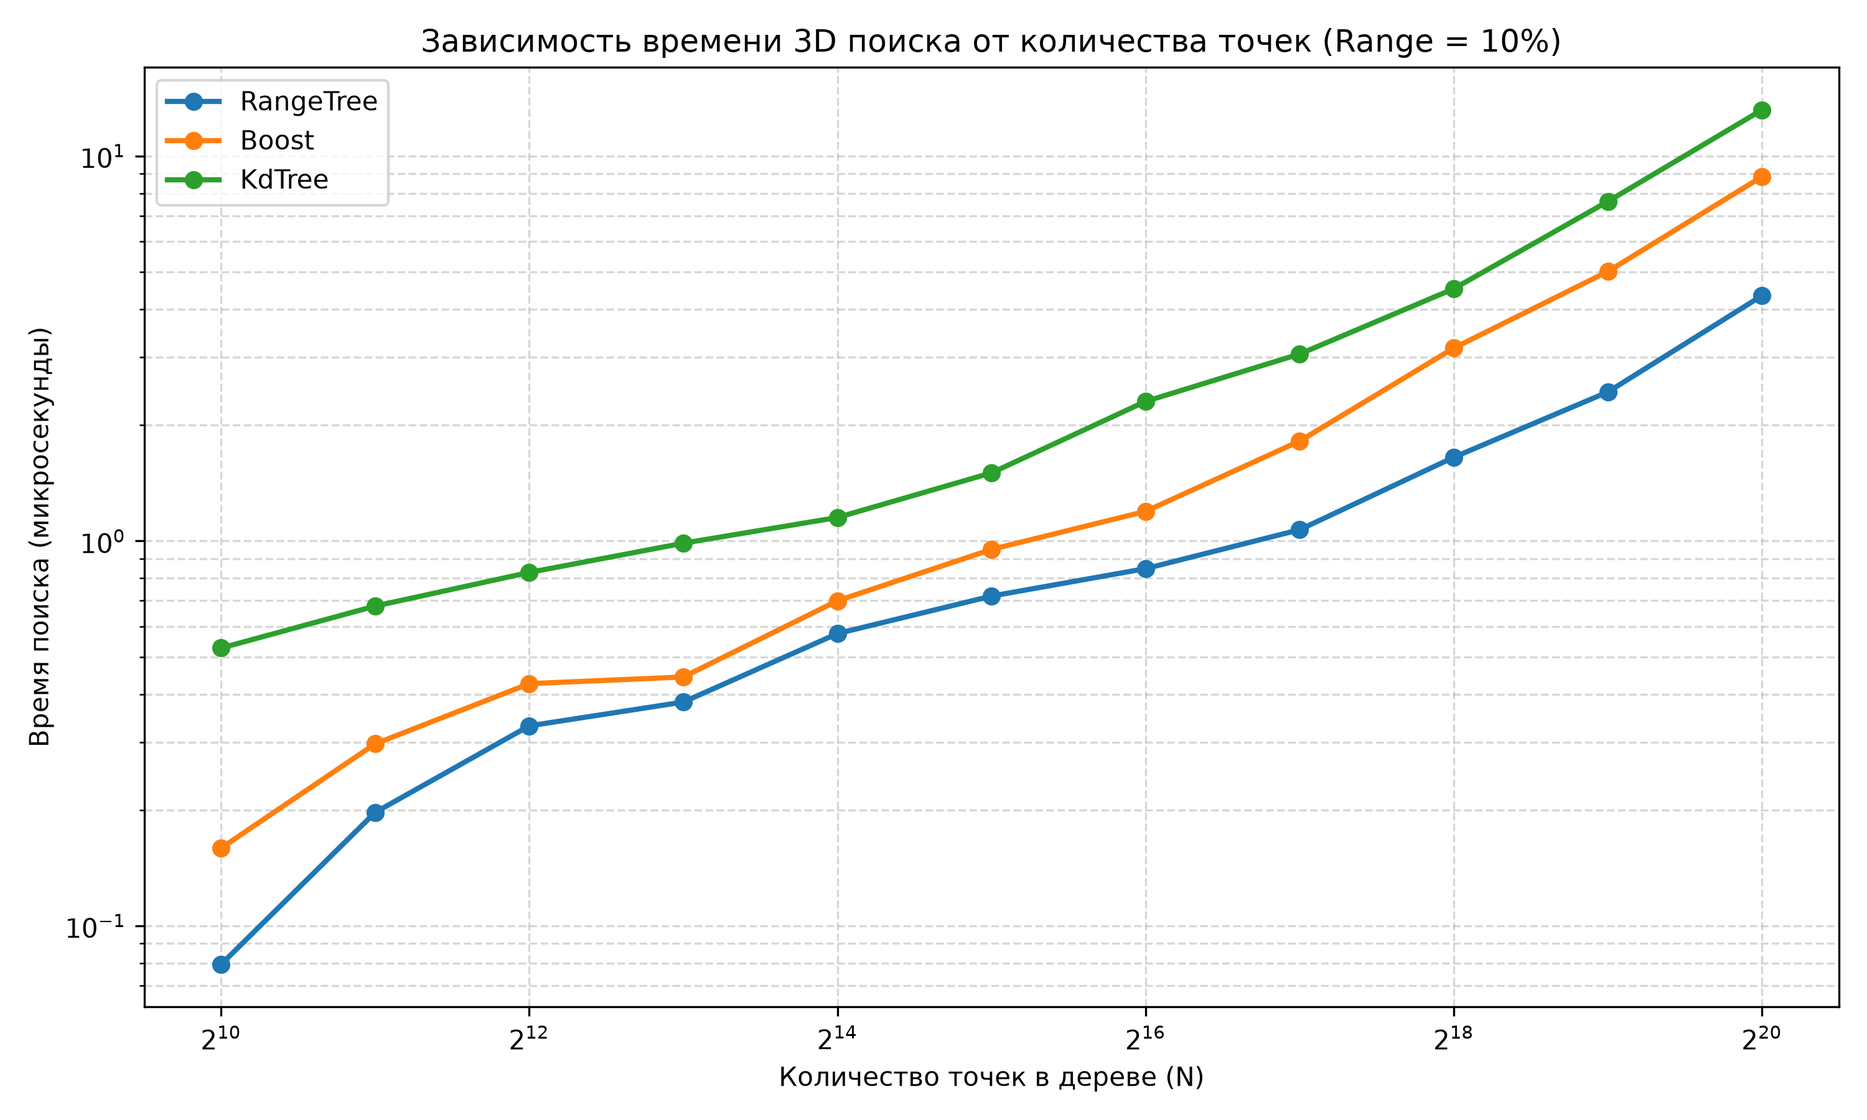
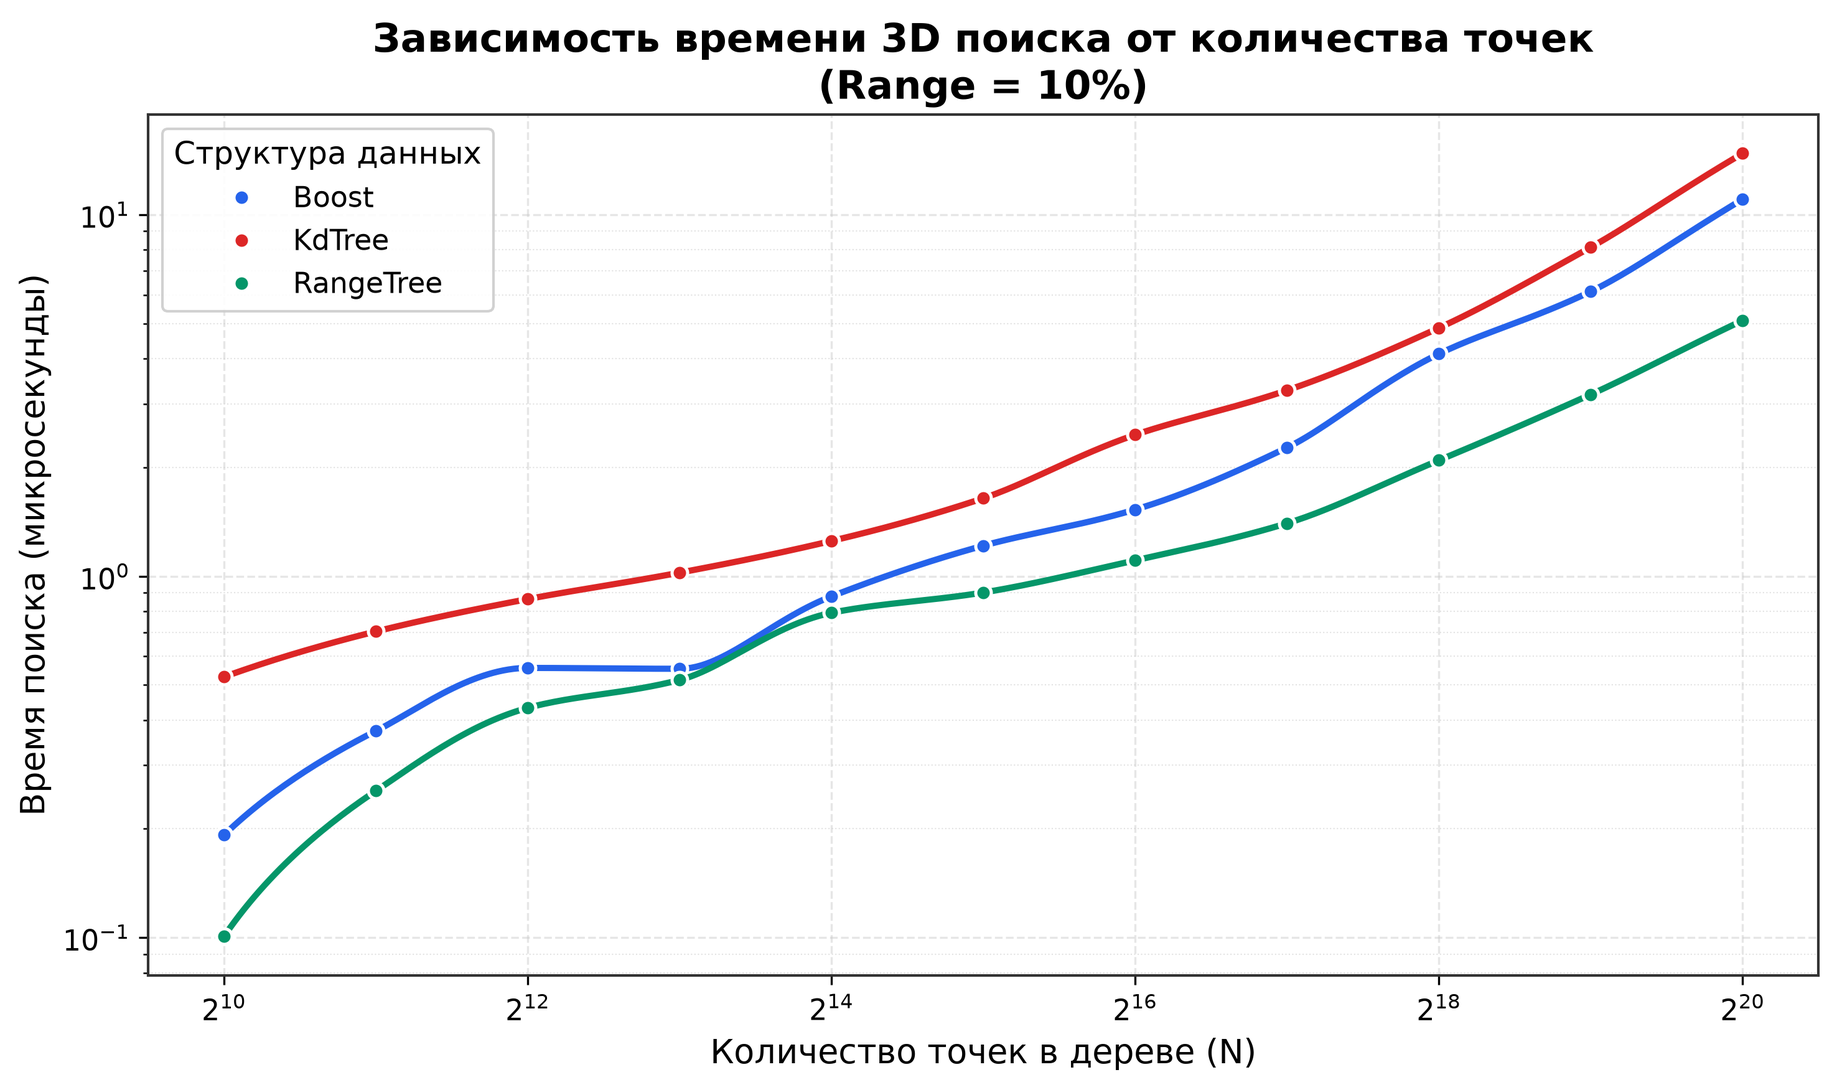
Add README

diff --git a/tools/RangeSearch/analysis/analyze.py b/tools/RangeSearch/analysis/analyze.py
@@ -1,96 +1,157 @@
 import json
 import os
-import matplotlib.pyplot as plt
 import numpy as np
+import matplotlib as mpl
+import matplotlib.pyplot as plt
+from scipy.interpolate import PchipInterpolator
+
+# ---------------------------------------------------------------------------
+# Production-style настройки matplotlib
+# ---------------------------------------------------------------------------
+mpl.rcParams.update({
+    "figure.dpi": 120,
+    "savefig.dpi": 300,
+    "font.family": "DejaVu Sans",
+    "font.size": 12,
+    "axes.titlesize": 15,
+    "axes.titleweight": "bold",
+    "axes.labelsize": 13,
+    "axes.edgecolor": "#333333",
+    "axes.linewidth": 1.0,
+    "xtick.labelsize": 11,
+    "ytick.labelsize": 11,
+    "legend.fontsize": 11,
+    "legend.frameon": True,
+    "legend.framealpha": 0.9,
+    "legend.edgecolor": "#cccccc",
+    "grid.color": "#c9c9c9",
+    "grid.alpha": 0.45,
+    "axes.facecolor": "white",
+    "figure.facecolor": "white",
+})
+
+PALETTE = ["#2563eb", "#dc2626", "#059669", "#d97706", "#7c3aed", "#0891b2"]
+
 
 def load_benchmark_data(filepath):
-    with open(filepath, 'r') as f:
+    with open(filepath, "r") as f:
         data = json.load(f)
-    return data['benchmarks']
+    return data["benchmarks"]
 
-def plot_vary_n(benchmarks, output_dir='analysis/plots'):
-    # Создаем директорию, если её нет
+
+def _aggregate(x_raw, y_raw):
+    """Группирует повторные замеры с одинаковым x и считает mean/std.
+
+    Нужно по двум причинам:
+    1) PchipInterpolator требует строго уникальные x.
+    2) Усреднение по повторам убирает шум измерений -> кривая объективно
+       глаже, а не просто визуально сглажена интерполяцией.
+    """
+    x = np.asarray(x_raw, dtype=float)
+    y = np.asarray(y_raw, dtype=float)
+    order = np.argsort(x)
+    x, y = x[order], y[order]
+    x_unique, start_idx = np.unique(x, return_index=True)
+    groups = np.split(y, start_idx[1:])
+    mean = np.array([g.mean() for g in groups])
+    std = np.array([g.std() for g in groups])
+    return x_unique, mean, std
+
+
+def _smooth(x, y, n=300):
+    """Монотонная PCHIP-интерполяция: гладкая кривая без осцилляций,
+    в отличие от обычного кубического сплайна на разреженных точках."""
+    if len(x) < 3:
+        return x, y
+    pchip = PchipInterpolator(x, y)
+    x_dense = np.linspace(x.min(), x.max(), n)
+    return x_dense, pchip(x_dense)
+
+
+def _plot_series(ax, x, mean, std, label, color, log_x=False):
+    # Для оси с лог-масштабом интерполируем в log-пространстве,
+    # иначе плотная сетка np.linspace будет неравномерной после log-преобразования осей
+    x_axis = np.log2(x) if log_x else x
+
+    x_dense, mean_dense = _smooth(x_axis, mean)
+    _, upper_dense = _smooth(x_axis, mean + std)
+    _, lower_dense = _smooth(x_axis, np.clip(mean - std, a_min=0, a_max=None))
+
+    x_plot = 2 ** x_dense if log_x else x_dense
+
+    ax.fill_between(x_plot, lower_dense, upper_dense, color=color, alpha=0.12, linewidth=0, zorder=1)
+    ax.plot(x_plot, mean_dense, color=color, linewidth=2.4, solid_capstyle="round", zorder=3)
+    ax.plot(x, mean, marker="o", linestyle="none", markersize=6,
+            markerfacecolor=color, markeredgecolor="white", markeredgewidth=1.2,
+            zorder=4, label=label)
+
+
+def plot_vary_n(benchmarks, output_dir="analysis/plots"):
     os.makedirs(output_dir, exist_ok=True)
-    
-    # Фильтруем реальные итерации бенчмарка
-    data = [b for b in benchmarks if "Search_VaryN" in b['name'] and b.get('run_type') == 'iteration']
-    
+    data = [b for b in benchmarks if "Search_VaryN" in b["name"] and b.get("run_type") == "iteration"]
     if not data:
         print("Нет данных для графика Vary N")
         return
 
     trees = {}
     for entry in data:
-        tree_name = entry['name'].split('_')[0] 
-        if tree_name not in trees:
-            trees[tree_name] = {'n': [], 'time': []}
-        
-        trees[tree_name]['n'].append(entry['n_points'])
-        trees[tree_name]['time'].append(entry['cpu_time'])
+        tree_name = entry["name"].split("_")[0]
+        trees.setdefault(tree_name, {"n": [], "time": []})
+        trees[tree_name]["n"].append(entry["n_points"])
+        trees[tree_name]["time"].append(entry["cpu_time"])
 
-    plt.figure(figsize=(10, 6))
-    for tree_name, metrics in trees.items():
-        sorted_indices = np.argsort(metrics['n'])
-        n_sorted = np.array(metrics['n'])[sorted_indices]
-        time_sorted = np.array(metrics['time'])[sorted_indices]
-        
-        plt.plot(n_sorted, time_sorted, marker='o', label=tree_name, linewidth=2)
+    fig, ax = plt.subplots(figsize=(10, 6))
+    for i, tree_name in enumerate(sorted(trees)):
+        n, mean, std = _aggregate(trees[tree_name]["n"], trees[tree_name]["time"])
+        _plot_series(ax, n, mean, std, tree_name, PALETTE[i % len(PALETTE)], log_x=True)
 
-    plt.xscale('log', base=2)
-    plt.yscale('log', base=10)
-    plt.xlabel('Количество точек в дереве (N)')
-    plt.ylabel('Время поиска (микросекунды)')
-    plt.title('Зависимость времени 3D поиска от количества точек (Range = 10%)')
-    plt.grid(True, which="both", ls="--", alpha=0.5)
-    plt.legend()
-    plt.tight_layout()
-    
-    # Сохраняем в целевую папку
-    save_path = os.path.join(output_dir, 'search_vs_n.png')
-    plt.savefig(save_path, dpi=300)
-    print(f"График успешно сохранен в: {save_path}")
-    plt.close()
+    ax.set_xscale("log", base=2)
+    ax.set_yscale("log", base=10)
+    ax.set_xlabel("Количество точек в дереве (N)")
+    ax.set_ylabel("Время поиска (микросекунды)")
+    ax.set_title("Зависимость времени 3D поиска от количества точек\n(Range = 10%)")
+    ax.grid(True, which="major", linestyle="--", linewidth=0.8)
+    ax.grid(True, which="minor", linestyle=":", linewidth=0.5, alpha=0.5)
+    ax.legend(title="Структура данных", loc="best")
+    fig.tight_layout()
 
-def plot_vary_range(benchmarks, output_dir='analysis/plots'):
-    # Создаем директорию, если её нет
+    save_path = os.path.join(output_dir, "search_vs_n.png")
+    fig.savefig(save_path, bbox_inches="tight")
+    print(f"График успешно сохранён в: {save_path}")
+    plt.close(fig)
+
+
+def plot_vary_range(benchmarks, output_dir="analysis/plots"):
     os.makedirs(output_dir, exist_ok=True)
-    
-    # Фильтруем реальные итерации бенчмарка
-    data = [b for b in benchmarks if "Search_VaryRange" in b['name'] and b.get('run_type') == 'iteration']
-    
+    data = [b for b in benchmarks if "Search_VaryRange" in b["name"] and b.get("run_type") == "iteration"]
     if not data:
         print("Нет данных для графика Vary Range")
         return
 
     trees = {}
     for entry in data:
-        tree_name = entry['name'].split('_')[0]
-        if tree_name not in trees:
-            trees[tree_name] = {'pct': [], 'time': []}
-        
-        trees[tree_name]['pct'].append(entry['query_pct'])
-        trees[tree_name]['time'].append(entry['cpu_time'])
+        tree_name = entry["name"].split("_")[0]
+        trees.setdefault(tree_name, {"pct": [], "time": []})
+        trees[tree_name]["pct"].append(entry["query_pct"])
+        trees[tree_name]["time"].append(entry["cpu_time"])
 
-    plt.figure(figsize=(10, 6))
-    for tree_name, metrics in trees.items():
-        sorted_indices = np.argsort(metrics['pct'])
-        pct_sorted = np.array(metrics['pct'])[sorted_indices]
-        time_sorted = np.array(metrics['time'])[sorted_indices]
-        
-        plt.plot(pct_sorted, time_sorted, marker='s', label=tree_name, linewidth=2)
+    fig, ax = plt.subplots(figsize=(10, 6))
+    for i, tree_name in enumerate(sorted(trees)):
+        pct, mean, std = _aggregate(trees[tree_name]["pct"], trees[tree_name]["time"])
+        _plot_series(ax, pct, mean, std, tree_name, PALETTE[i % len(PALETTE)])
 
-    plt.xlabel('Размер диапазона поиска (% от объема пространства)')
-    plt.ylabel('Время поиска (микросекунды)')
-    plt.title('Зависимость времени 3D поиска от размера диапазона (N = 100,000)')
-    plt.grid(True, linestyle="--", alpha=0.7)
-    plt.legend()
-    plt.tight_layout()
-    
-    # Сохраняем в целевую папку
-    save_path = os.path.join(output_dir, 'search_vs_range.png')
-    plt.savefig(save_path, dpi=300)
-    print(f"График успешно сохранен в: {save_path}")
-    plt.close()
+    ax.set_xlabel("Размер диапазона поиска (% от объёма пространства)")
+    ax.set_ylabel("Время поиска (микросекунды)")
+    ax.set_title("Зависимость времени 3D поиска от размера диапазона\n(N = 100,000)")
+    ax.grid(True, linestyle="--", linewidth=0.8, alpha=0.7)
+    ax.legend(title="Структура данных", loc="best")
+    fig.tight_layout()
+
+    save_path = os.path.join(output_dir, "search_vs_range.png")
+    fig.savefig(save_path, bbox_inches="tight")
+    print(f"График успешно сохранён в: {save_path}")
+    plt.close(fig)
+
 
 if __name__ == "__main__":
     # Предполагается, что скрипт запускается из корня проекта: python analysis/analyze.py

diff --git a/tools/RangeSearch/README.md b/tools/RangeSearch/README.md
@@ -1,5 +1,133 @@
+
+
 # RangeSearchNd
 
+Проект предоставляет инструменты для эффективного поиска точек в $n$-мерном гиперпараллелепипеде (диапазоне) со сторонами, параллельными осям координат (nD Range Search).
+
+### Реализованные алгоритмы:
+
+* **KD-Tree** (по книге М. де Берга «Вычислительная геометрия»)
+* **Range Tree** (по книге М. де Берга «Вычислительная геометрия»)
+* **Boost R\* Tree** (интеграция из `boost::geometry` для сравнения производительности)
 
 
-¢
+
+## Requirements
+
+
+
+* **Система сборки:** CMake (>= 3.15), Ninja
+* **Компилятор:** C++23
+* **Зависимости C++:** Boost, Qt5
+* **Тестирование и бенчмарки:** Google Test (gtest), Google Benchmark (gbench)
+* **Анализ данных:** Python3 (с пакетами `numpy` и `matplotlib`)
+
+
+
+## Build
+
+
+
+```bash
+# Конфигурация проекта
+cmake -S . -B build -G Ninja -DCMAKE_EXPORT_COMPILE_COMMANDS=ON -DCMAKE_COLOR_DIAGNOSTICS=ON
+
+# Компиляция 
+cmake --build build -jN
+
+```
+
+
+
+## Запуск и использование (Usage)
+
+### 1. Модульное тестирование
+
+Запуск модульных тестов для проверки корректности работы KD-Tree и Range Tree:
+
+```bash
+./build/tests/run_tests
+```
+
+> Корректность алгоритмов валидируется методом Brute-Force  на случайных наборах данных размерностью вплоть до 12 измерений.
+
+### 2. Базовые бенчмарки
+
+Запуск стандартного замера производительности для трех алгоритмов:
+
+```bash
+./build/benchmarks/run_benchmarks
+```
+
+> Измеряется время построения деревьев  и время выполнения поисковых запросов. Поиск тестируется на диапазонах, включающих в себя фиксированный процент точек от общего пространства пространства (1%, 5%, 10%, 25%, 50%, 75%, 100%).
+
+#### 2.1 Построение графиков
+
+Для исследования зависимостей (время поиска от размера диапазона и от количества точек в структуре для 3D пространства) используйте расширенный флаг `--findvary`:
+
+```bash
+# 1. Запуск расширенных бенчмарков с экспортом в JSON
+./build/benchmarks/run_benchmarks --benchmark_format=json --benchmark_out=benchmark_results.json --findvary
+
+# 2. Настройка Python окружения
+python3 -m venv .venv
+source .venv/bin/activate
+pip install numpy matplotlib
+
+# 3. Генерация графиков по результатам замеров
+python analysis/analyze.py
+
+```
+
+После выполнения скрипта в папке `analysis/plots/` будут сохранены два графика:
+
+* `search_vs_n.png` — зависимость времени поиска от $N$ точек в дереве.
+* `search_vs_range.png` — зависимость времени поиска от объема окна выборки.
+
+### 4. Графический интерфейс (GUI)
+
+Проект содержит интерактивное десктопное приложение, написанное на Qt5:
+
+```bash
+./build/src/RangeSearch
+```
+
+**Возможности GUI:**
+
+* Загрузка собственного файла с точками из интерфейса.
+* Визуальное интерактивное выполнение Range Search запросов.
+* Встроенный вывод графиков производительности стандартного бенчмарка.
+
+Вот компактный и наглядный вариант для раздела `README.md`. Я разделил сырые данные на две логические таблицы (построение и поиск), убрал лишнюю служебную информацию (итерации, дублирующееся время) и оставил только ключевые точки: $N = 10 000$ (как ты просил), максимальную нагрузку ($N = 100 000$) для оценки масштабирования, а также показательные выборки для поиска (1%, 50%, 100%).
+
+Добавь этот блок в свой файл:
+
+
+
+## Benchmarks
+
+Результаты для 3D пространства.
+
+### 1. Время построения деревьев 
+
+CPU Time, затраченное на аллокацию и сборку структуры, а также эмпирически вычисленная асимптотическая сложность.
+
+| Алгоритм | N = 10,000 | N = 100,000 | Асимптотика (Big-O) |
+| --- | --- | --- | --- |
+| **Boost R\* Tree** | 1.02 ms | 15.8 ms | $\approx 9.35 \cdot N \log N$ |
+| **KD-Tree** | 1.75 ms | 21.4 ms | $\approx 12.97 \cdot N \log N$ |
+| **Range Tree** | 72.8 ms | 1059 ms | $\approx 632.39 \cdot N \log N$ |
+
+
+### 2. Время выполнения запроса (Range Search)
+
+Время поиска целевых точек внутри $n$-мерного параллелепипеда. Замеры проведены для дерева фиксированного размера (**$N = 10 000$ точек**). Диапазон поиска варьируется от 1% до 100% от общего объема пространства.
+
+| Алгоритм | Малый диапазон (1%) | Средний диапазон (50%) | Полный охват (100%) |
+| --- | --- | --- | --- |
+| **Boost R\* Tree** | 0.048 us | 9.92 us | 93.0 us |
+| **KD-Tree** | 0.368 us | 14.0 us | 82.4 us |
+| **Range Tree** | 0.055 us | 3.23 us | 36.8 us |
+
+
+

diff --git a/README.md b/README.md
@@ -5,7 +5,8 @@ A collection of C and C++ utilities, tools, and educational projects.
 
 - [study/](./study/) — study projects and experiments
   - [parallel_sorting/](./study/parallel_sorting/) — parallel sorting algorithms and their benchmarking
-  - [xroads](./study/xroads/) - multithreading crossroad simulation with lock-free SCSP FIFO
+  - [xroads/](./study/xroads/) - multithreading crossroad simulation with lock-free SCSP FIFO
 - [tools/](./tools/) — various utilities and tools
+  - [RangeSearch/](./tools/RangeSearch/) - N-dimensional range search using k-d tree, range tree, and Boost R* tree 
   - [ConcaveHull/](./tools/ConcaveHull/) — concave hull construction, working with points, and visualization
   - [DeleteRepeatsData/](./tools/DeleteRepeatsData/) — removing duplicate data from files
